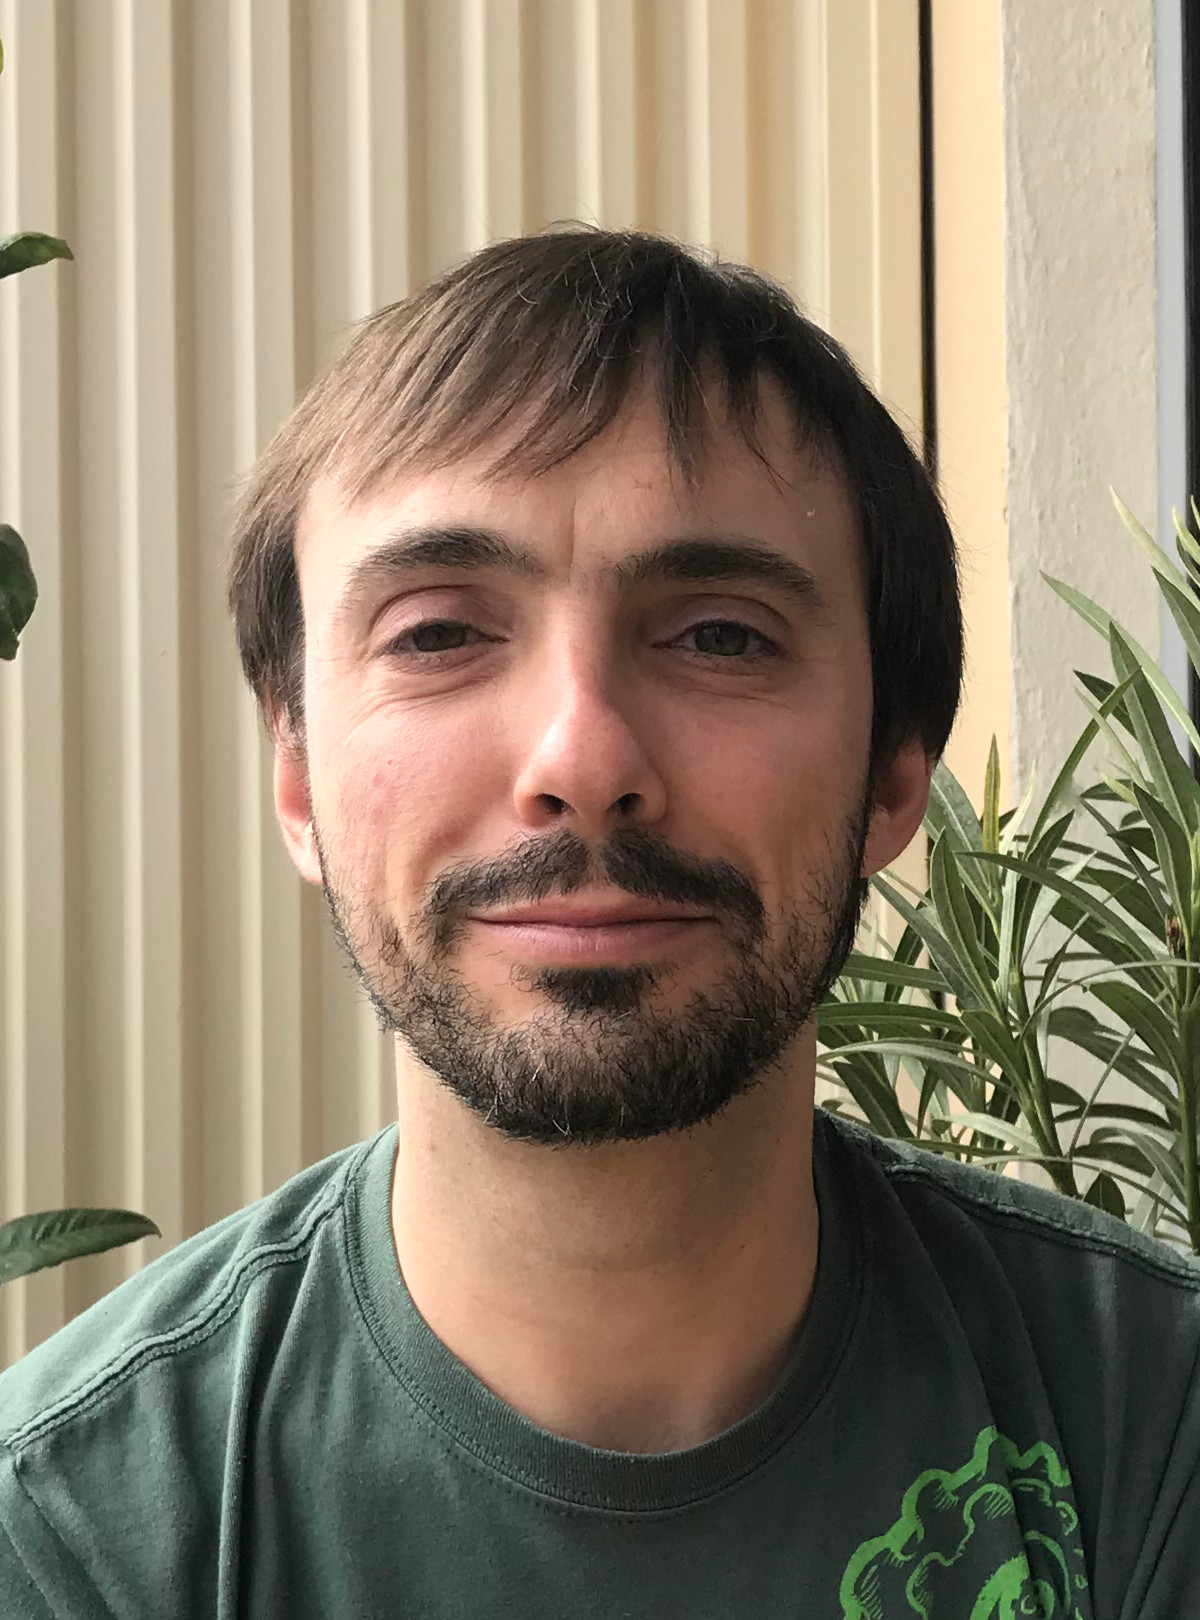
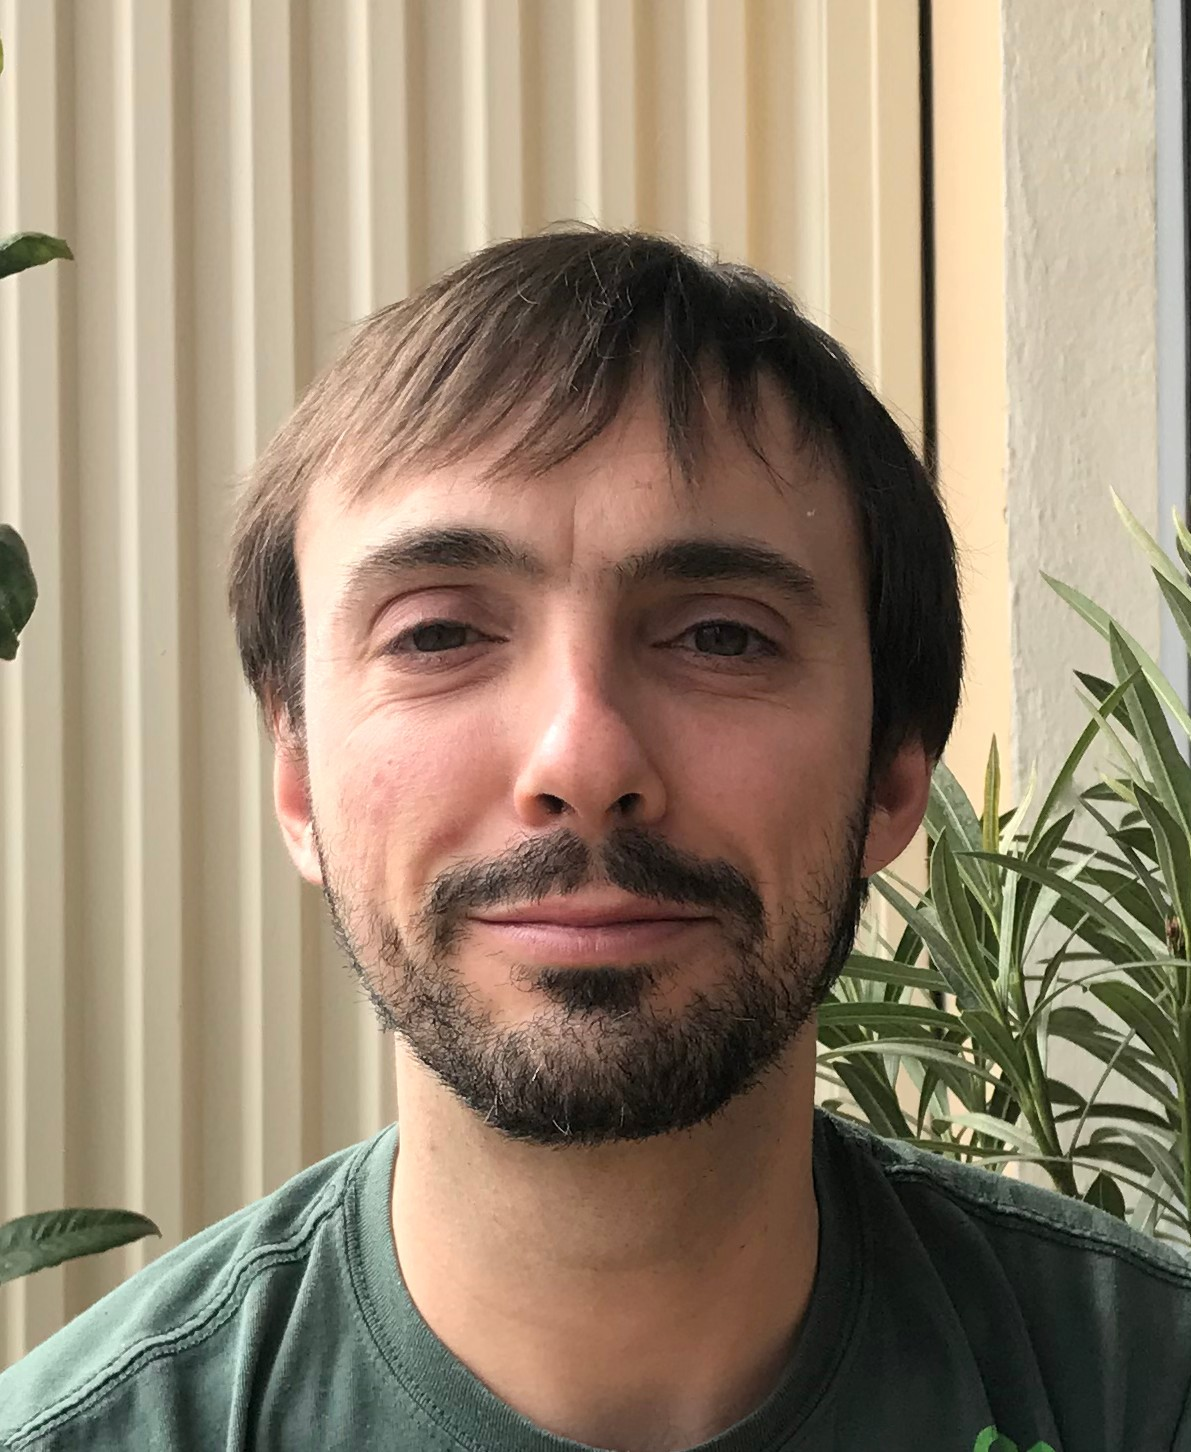
version avec photo et nom en deux lignes

diff --git a/main.css b/main.css
@@ -22,7 +22,6 @@ main {
     position: relative;
 }
 h2 {
-    /* font-family: 'Secular One', sans-serif; */
     font-size: 32px;
     margin-bottom: 24px;
 }
@@ -30,58 +29,56 @@ h3 {
     font-size: 20px;
 }
 
-
-/* PHOTO */
-#photo {
-    position : absolute;
-    top : -20px;
-    right: 8px;
-    width: 240px;
-    height: 260px;
-    background-size: cover;
-}
-/* #photo img {
-    border-radius: 45%;
-    width : 100%;
-} */
-
-
 /* IDENTITÉ */
 .idblock {
     padding: 24px 24px 32px 0px;
     display: flex;
     flex-flow: nowrap row;
-    height: 220px;
+    height: 240px;
 }
 .idblock h1 {
-    padding-left: 24px;
-    font-size: 46px;
+    padding-left: 12px;
+    font-size: 42px;
     font-weight: 700;
     font-family: 'Secular One', sans-serif;
     color:rgb(38, 31, 27);
     line-height: 1;
+    margin-top: auto;
+    margin-right: 24px;
+    margin-bottom: 0;
+
+}
+.idblock img {
+    width: 180px;
+    height: 180px;
+    border-radius: 50%;
+    object-fit: cover;
+    border: 8px solid rgb(99, 85, 65);
+    flex-shrink: 0;
 }
 .contact {
-    margin-top: 16px;
-    padding: 12px;
+    margin-top: auto;
     margin-left: auto;
     margin-right: 20px;
+    padding: 12px;
     overflow: hidden;
     width: 32px;
     transition: all 0.6s;
     border-radius: 24px 0px 0px 24px;
+    flex-shrink: 0;
 }
 .contact:hover  {
     background-color: rgb(215, 206, 186);
     cursor: pointer;
     width: 220px;
+    flex-shrink: 0;
 }
 .contact li {
     display: flex;
     flex-flow: nowrap row;
     padding: 3px 0px;
     font-size: 13px;
-    height: 32px;
+    /* height: 32px; */
 }
 .contact i {
     font-size: 18px;

diff --git a/index.html b/index.html
@@ -22,31 +22,33 @@
     </div>
 
     <!-- IDENTITE -->
-    <section class="idblock">
-      <div>
+    <section>
+      <div class="idblock">
+        <img src="images/photo_arthur.jpg" alt="">
         <h1>Arthur <br> BAUZOU</h1>
-        <!-- <h2>Développeur Web</h2> -->
+        
+        <ul class="contact" deploy="false">
+          <li>
+            <i class="fa-solid fa-house"></i>
+            <p>Aix-en-Provence</p>
+          </li>
+          <li>
+            <i class="fa-solid fa-phone"></i>
+            <p>066 066 75 61</p>
+          </li>
+          <li>
+            <i class="fa-solid fa-envelope"></i>
+            <p>arthurbauzou@gmail.com</p>
+          </li>
+          <li>
+            <i class="fa-brands fa-github"></i>
+            <a href="https://github.com/ArthurBauzou">github.com/ArthurBauzou</a>
+          </li>
+        </ul>
       </div>
 
-      <ul class="contact">
-        <li>
-          <i class="fa-solid fa-house"></i>
-          <p>Aix-en-Provence</p>
-        </li>
-        <li>
-          <i class="fa-solid fa-phone"></i>
-          <p>066 066 75 61</p>
-        </li>
-        <li>
-          <i class="fa-solid fa-envelope"></i>
-          <p>arthurbauzou@gmail.com</p>
-        </li>
-        <li>
-          <i class="fa-brands fa-github"></i>
-          <a href="https://github.com/ArthurBauzou">github.com/ArthurBauzou</a>
-        </li>
-      </ul>
-
+      <h2>Développeur Web</h2>
+      
     </section>
 
     <!-- COMPETENCES -->

diff --git a/monscript.js b/monscript.js
@@ -1,6 +1,6 @@
 
 // afficher les détails des experiences et des formations
-function showdetail(e) {
+function showDetail(e) {
     let et = e.currentTarget.querySelector('ul');
     let dur = e.currentTarget.querySelector('span.duree');
     et.hidden = !et.hidden;
@@ -8,5 +8,16 @@ function showdetail(e) {
 }
 // création des boutons interactifs (event listeners)
 let etis = document.querySelectorAll('.etiquette');
-etis.forEach(e => e.addEventListener('click', showdetail))
+etis.forEach(e => e.addEventListener('click', showDetail))
 
+
+document.querySelector('.contact').addEventListener('click', (e) => {
+    if (e.currentTarget.deploy = "false") {
+        e.currentTarget.setAttribute("deploy", "true");
+        e.currentTarget.style.width = '240px';
+    }
+    else {
+        e.currentTarget.style.width = '32px';
+        e.currentTarget.setAttribute("deploy", "false");
+    }
+})
